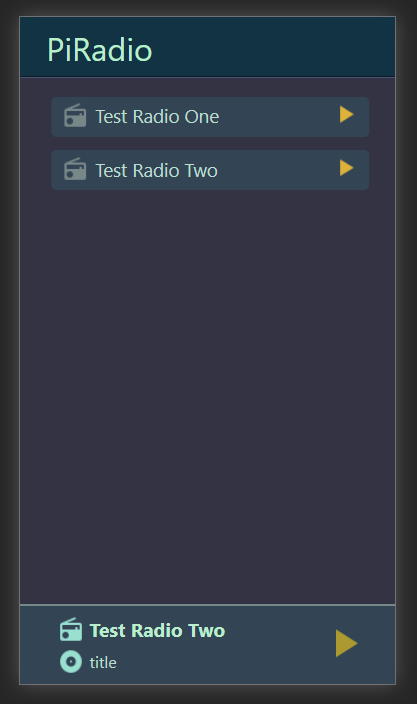
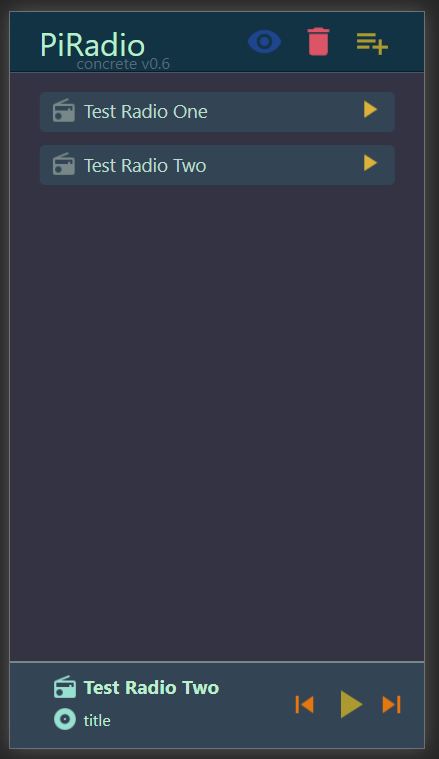
front: PiRadio concrete ver0.6

Changed region(s): [[0.0, 0.0, 0.9664, 1.0], [0.6547, 0.9062, 0.717, 0.9375]]

diff --git a/server/resources/server.js b/server/resources/server.js
@@ -45,6 +45,8 @@ var colors = class Colors {
         this.add_button_clear;
 
         this.col_delete_button;
+
+        this.col_view_button;
     }
 };
 
@@ -109,6 +111,8 @@ function load_colors() {
 
     colors.col_delete_button = "invert(16%) sepia(87%) saturate(6103%) hue-rotate(355deg) brightness(94%) contrast(106%)";
 
+    colors.col_view_button = "invert(20%) sepia(81%) saturate(1673%) hue-rotate(206deg) brightness(86%) contrast(90%)";
+
     document.body.style.setProperty("background", colors.col_background, "important");
 
     var header = document.getElementsByTagName("Header");
@@ -155,18 +159,18 @@ setInterval(function() {
     }
 }, 5000);
 
-function getMaxStationNameLength(){
-    var resol = resolution;
-    if (resol > 400) { resol = 400; }
-    if (resol < 340) { resol -= 100; }
+function getMaxStationNameLength(min = 800){
+    var resol = resolution; 
+    if (resol > min) { resol = min; }
+    else if (resol <= 320) { resol -= 100; }
     var ratio = 400/26;
     return parseInt(resol/ratio);
 }
 
-function cutText(text){
+function cutText(text, min = 800){
     var out;
-    if (text.length > getMaxStationNameLength() ) {
-        out  = document.createTextNode(text.slice(0,getMaxStationNameLength()-3) + "...");
+    if (text.length > getMaxStationNameLength(min) ) {
+        out  = document.createTextNode(text.slice(0,getMaxStationNameLength(min)-3) + "...");
     } else {
         out = document.createTextNode(text);;
     }
@@ -227,7 +231,11 @@ function load_stations_list(deleteStatus = false) {
             }
         }
         item.appendChild(station_radio_img)
-        item.appendChild(cutText(Stations_List_Json[iter]["name"]));
+        if (view_url){
+            item.appendChild(cutText(Stations_List_Json[iter]["uri"]));
+        } else {
+            item.appendChild(cutText(Stations_List_Json[iter]["name"]));
+        }
         item.appendChild(station_play_btn);
         document.getElementById("STATIONS_LIST").appendChild(item);    
     }
@@ -255,6 +263,7 @@ function load_player_state(){
     document.getElementById("button_del_img").style.filter = colors.col_player_play;
     document.getElementById("button_next_img").style.filter = colors.col_player_next;
     document.getElementById("button_prev_img").style.filter = colors.col_player_prev;
+    document.getElementById("button_view_img").style.filter = colors.col_view_button;
 
     var stateBtn = document.getElementById("button_state_img");
     document.getElementById("Player_head").innerHTML = "";
@@ -282,9 +291,9 @@ function load_player_state(){
     var current = JSON.parse(httpGet("/radio/api/audio/get/station"));
     if (current["code"] == 200){
         current = current["value"];
-        name.appendChild(cutText(current["name"]));
+        name.appendChild(cutText(current["name"], 321));
         if (current["title"].length == 0) {current["title"] = "title";}
-        title.appendChild(cutText(current["title"]));
+        title.appendChild(cutText(current["title"], 340));
     } else {
         name.appendChild(document.createTextNode("station"));
         title.appendChild(document.createTextNode("title"));
@@ -454,6 +463,18 @@ function prev(){
     httpGet("/radio/api/audio/prev");
     httpGet("/radio/api/audio/play");
     reload();
+}
+
+var view_url = false;
+function view_url_station(){
+    if (!view_url) {
+        view_url = true;
+        reload();
+    } else {
+        view_url = false;
+        reload();
+    }
+
 }
 
 /* ANCHOR HTTP REQUEST */

diff --git a/server/resources/css/title.css b/server/resources/css/title.css
@@ -20,6 +20,15 @@ Header {
     font-size: xx-large;
 }
 
+#version {
+    text-align: left;
+    padding-left: 16%;
+    font-size: medium;
+    position: absolute;
+    top: 30pt;
+    color:#596A7A;
+}
+
 #button_add {
     width: 28pt;
     background: transparent;
@@ -81,3 +90,37 @@ Header {
     background: transparent;
     outline: none; 
 }
+
+/* VIEW */
+
+#button_view {
+    width: 28pt;
+    background: transparent;
+    padding: 0;
+    margin: 0;
+    position: fixed;
+    top: 8pt;
+    margin-bottom: 0;
+    left: 57%;
+    border: none;
+    outline: none; 
+}
+
+#button_view:focus {
+    border: none;
+    background: transparent;
+    outline: none; 
+}
+
+#button_view_img {
+    width: 100%;
+    text-align: right;
+    outline: none; 
+}
+
+#button_view_img:focus {
+    border: none;
+    background: transparent;
+    outline: none; 
+}
+

diff --git a/server/resources/index.html b/server/resources/index.html
@@ -24,6 +24,10 @@
 	<p id="test_id"></p>
 	<Header>
 		<p id="title_name">PiRadio</p>
+		<p id="version">concrete v0.6</p>
+		<button type="button" id="button_view" onclick="view_url_station()">
+			<img id="button_view_img" src="radio/res/img/view.png" />
+		</button>
 		<button type="button" id="button_del" onclick="load_delete_station()">
 			<img id="button_del_img" src="radio/res/img/delete.png" />
 		</button>
@@ -31,6 +35,7 @@
 			<img id="button_add_img" src="radio/res/img/add.png" />
 		</button>
 	</Header>
+
 	<div id="LIST">
 		<ul id="STATIONS_LIST">
 		</ul>

diff --git a/server/resources/css/stations.css b/server/resources/css/stations.css
@@ -1,5 +1,5 @@
 #STATIONS_LIST {
-    max-width: 400pt;
+    max-width: 700pt;
     width: 100%;
     margin-top: 60pt;
     margin-bottom: 70pt;
@@ -10,7 +10,7 @@
 .Item {
     margin: 0;
     margin-bottom: 10pt;
-    max-width: 400pt;
+    max-width: 700pt;
     padding-top: 4pt;
     margin-left: 3pt;
     width: 95%;

diff --git a/server/resources/css/server.css b/server/resources/css/server.css
@@ -1,5 +1,5 @@
 body {
-    max-width: 400pt !important;
+    max-width: 1000pt !important;
     width: 100%;
     float: middle !important;
     border: none !important;

diff --git a/server/README.md b/server/README.md
@@ -1,5 +1,6 @@
-## Developement basic version of PiRadio front-end
+## PiRadio concrete v0.6
 
 ![Radio 1](git-img/Radio1.png)
 ![Radio 2](git-img/Radio2.png)
-
+![Radio 3](git-img/Radio3.png)
+![Radio 4](git-img/Radio4.png)
